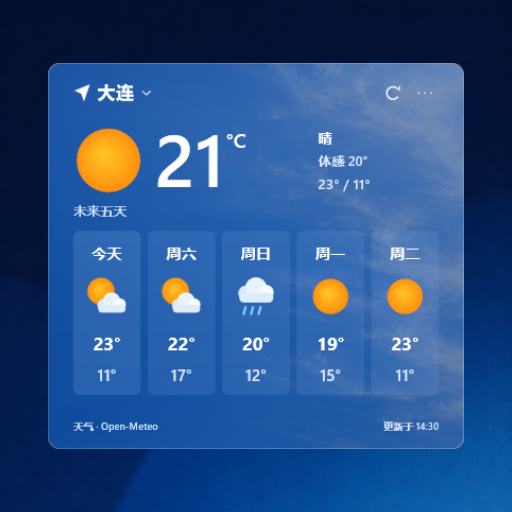
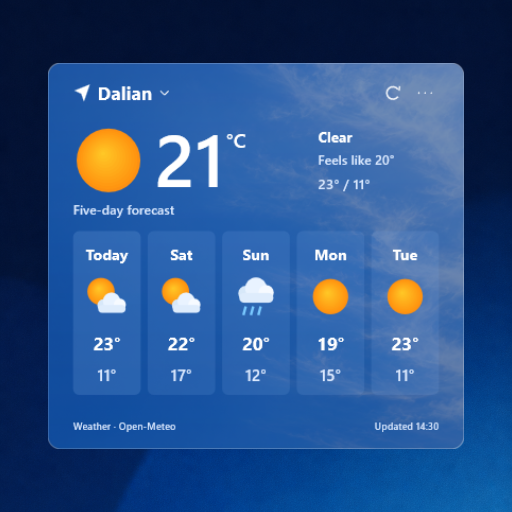
chore(widget): 采用英文天气工坊预览 / Use an English weather Workshop preview
中文：
- 将晴空天气工坊封面替换为英文真实组件渲染，沿用统一社区背景、4x3 实际跨度和 512x512 画布。
- 将 README 的封面生成命令改为 en-US，避免后续重新生成中文封面。

English:
- Replace the Sky Weather Workshop cover with an English render of the actual widget, retaining the shared community background, real 4x3 span and 512x512 canvas.
- Change the README cover-generation command to en-US so future regeneration retains the English cover.

验证 / Validation:
- snowwidget preview ... --columns 4 --rows 3 --locale en-US --appearance glass-light --background developer_assets/workshop_widgets/community-preview-background.png --canvas-size 512 --padding 48：实际生成并目检 512x512 英文 PNG，未见文字裁切或对齐异常 / Generated and visually inspected the 512x512 English PNG; no text clipping or alignment defect was observed.
- 标准社区背景与 Steam 商店 key_art_portrait.png 的 SHA-256 一致 / The shared community background and Steam key_art_portrait.png have identical SHA-256 hashes.
- snowwidget quality：16 文件通过，5 Lua 文件 lint 0 错误、0 警告 / 16 files passed validation; 5 Lua files linted with 0 errors and 0 warnings.
- snowwidget pack 后运行 snowwidget validate .../sky-weather-1.0.0.snowwidget：16 个归档文件校验通过 / Ran snowwidget validate on the packed archive; all 16 archive files passed validation.
- Steam bridge component-plan：生成新建公开项目计划，使用本地英文预览和包内十种语言文案；计划与发行包 SHA-256 一致 / Generated a create/public plan using the local English preview and ten package listing localizations; the plan and prepared archive have matching SHA-256 hashes.
[…]

diff --git a/developer_assets/workshop_widgets/sky-weather/README.md b/developer_assets/workshop_widgets/sky-weather/README.md
@@ -37,7 +37,7 @@ Windows 授权、实际定位精度和桌面面板交互需要用户实机验收
 .build\Release\snowwidget.exe lint developer_assets\workshop_widgets\sky-weather
 .build\Release\snowwidget.exe test developer_assets\workshop_widgets\sky-weather
 .build\Release\snowwidget.exe quality developer_assets\workshop_widgets\sky-weather
-.build\Release\snowwidget.exe preview developer_assets\workshop_widgets\sky-weather developer_assets\workshop_widgets\sky-weather\workshop-preview.png --columns 4 --rows 3 --locale zh-CN --appearance glass-light --background developer_assets\workshop_widgets\community-preview-background.png --canvas-size 512 --padding 48
+.build\Release\snowwidget.exe preview developer_assets\workshop_widgets\sky-weather developer_assets\workshop_widgets\sky-weather\workshop-preview.png --columns 4 --rows 3 --locale en-US --appearance glass-light --background developer_assets\workshop_widgets\community-preview-background.png --canvas-size 512 --padding 48
 scripts\widget-dev.bat developer_assets\workshop_widgets\sky-weather -Configuration Release -Once
 ```
 
